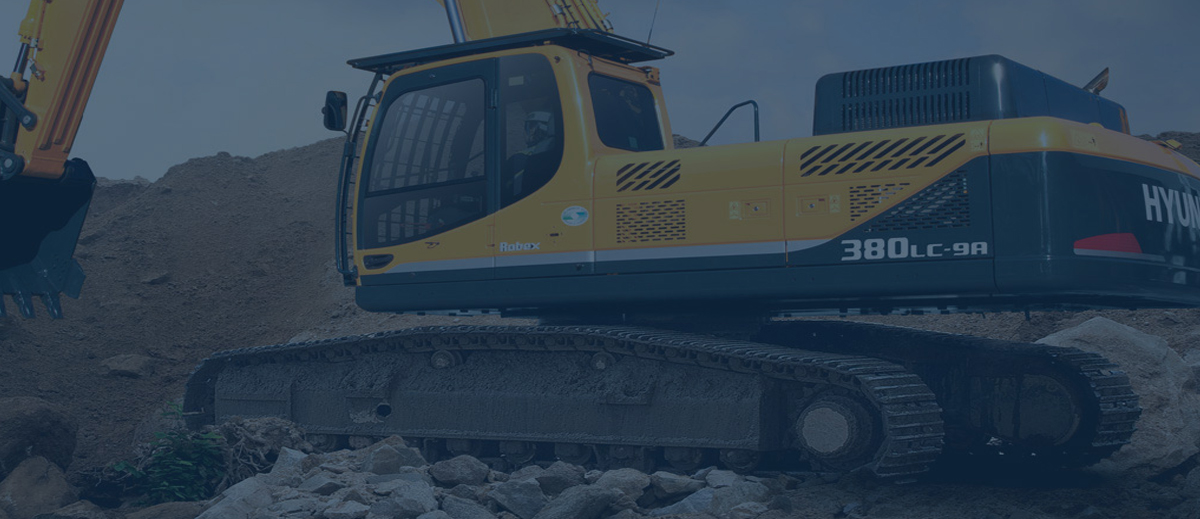
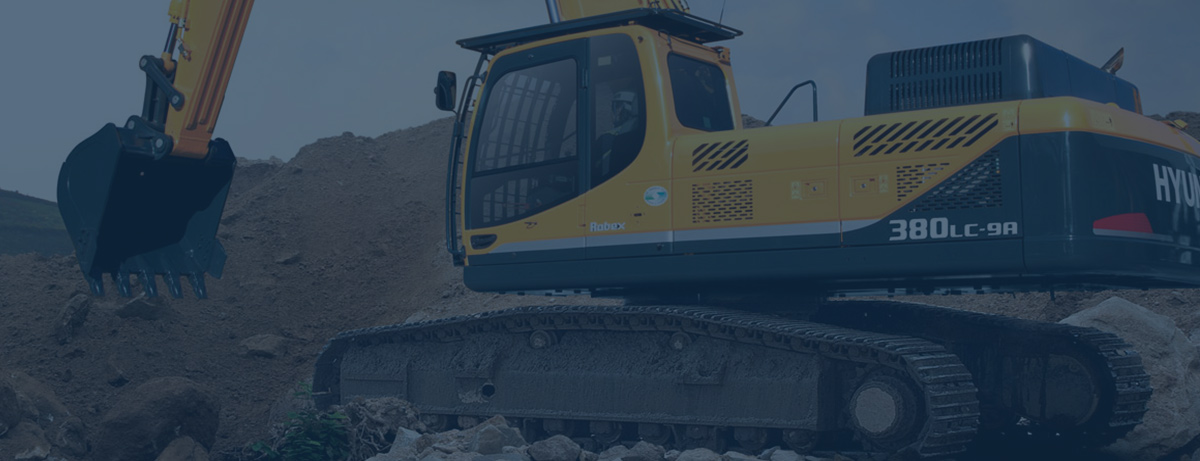
add promo

diff --git a/index.html b/index.html
@@ -32,9 +32,9 @@
 <!-- Промо -->
 		<article class="promo">
 			<div class="container">
-				<p class="promo-slogan">Вместе мы справимся</p>
-				<h1 class="promo-title">Спецтех24 - это сеть пунктов аренды спецтехники Cat, оборудованния и специализированных инструментов для выполнения большинства видов работ.</h1>
-				<a href="#" class="promo-btn">Перейти в каталог</a>
+				<p class="promo-slogan">Вместе мы справимся!</p>
+				<h1 class="promo-title">Спецтех24 - это сеть пунктов аренды спецтехники Cat, оборудованния<br> и специализированных инструментов для выполнения большинства<br> видов работ.</h1>
+				<a href="#" class="btn btn-promo">Перейти в каталог</a>
 			</div>
 		</article>
 <!-- Промо -->
@@ -52,7 +52,7 @@
 		</section>
 <!-- Консультации -->
 
-
+<!-- Преимущества -->
 		<div class="features">
 			<div class="container">
 				<div class="features-item features-item-tool">
@@ -69,9 +69,9 @@
 				</div>
 			</div>
 		</div>
+<!-- Преимущества -->
 
-
-
+<!-- Цены -->
 		<div class="deals">
 			<div class="container">
 				<aside class="technic-menu">
@@ -123,9 +123,9 @@
 				</section>
 			</div>
 		</div>
+<!-- Цены -->
 
-
-
+<!-- Отзывы -->
 		<div class="about">
 			<div class="container">
 				<section class="about-number">
@@ -156,13 +156,15 @@
 				</section>
 			</div>
 		</div>
+<!-- Отзывы -->
 
-
-
+<!-- Карта -->
 		<div class="map"></div>
+<!-- Карта -->
 	</main>
 
 
+<!-- Подвал -->
 	<footer class="page-footer">
 		<div class="container">
 			<a href="" class="logo">
@@ -182,6 +184,7 @@
 			</nav>
 		</div>
 	</footer>
+<!-- Подвал -->
 </body>
 </html>
 

diff --git a/css/style.css b/css/style.css
@@ -16,8 +16,7 @@ header {
 .logo {
     float: left;
     font-size: 24px;
-    color: black;
-	
+    color: black;	
 }
 
 header a {
@@ -86,4 +85,43 @@ header li {
 
 .btn-consult:active {
     background-color: #f6bf16;
+}
+
+
+
+.promo {
+    background-image: url(../img/bgpromo.jpg) !important;
+    background-repeat: no-repeat;
+    -webkit-background-size: cover;
+    background-size: cover;
+    text-align: center;
+    padding: 137px 0 100px;
+}
+
+.promo-slogan{
+    font-size: 44px;
+    color: white;
+    text-transform: uppercase;
+    font-weight: bold;
+    margin: 0;
+}
+
+.promo-title {
+    font-size: 20px;
+    color: #cfcecc;
+    font-weight: normal;
+    margin: 0;
+    margin-top: 36px;
+}
+
+.btn-promo {
+    color: white;
+    text-decoration: none;
+    font-weight: bold;
+    padding: 12px 75px 12px 13px;
+    border: 2px solid #ffcd34;
+    background-image: url(../img/arrow_right_icon.png);
+    background-repeat: no-repeat;
+    background-position: 90% 50%;
+    margin-bottom: 40px;
 }
